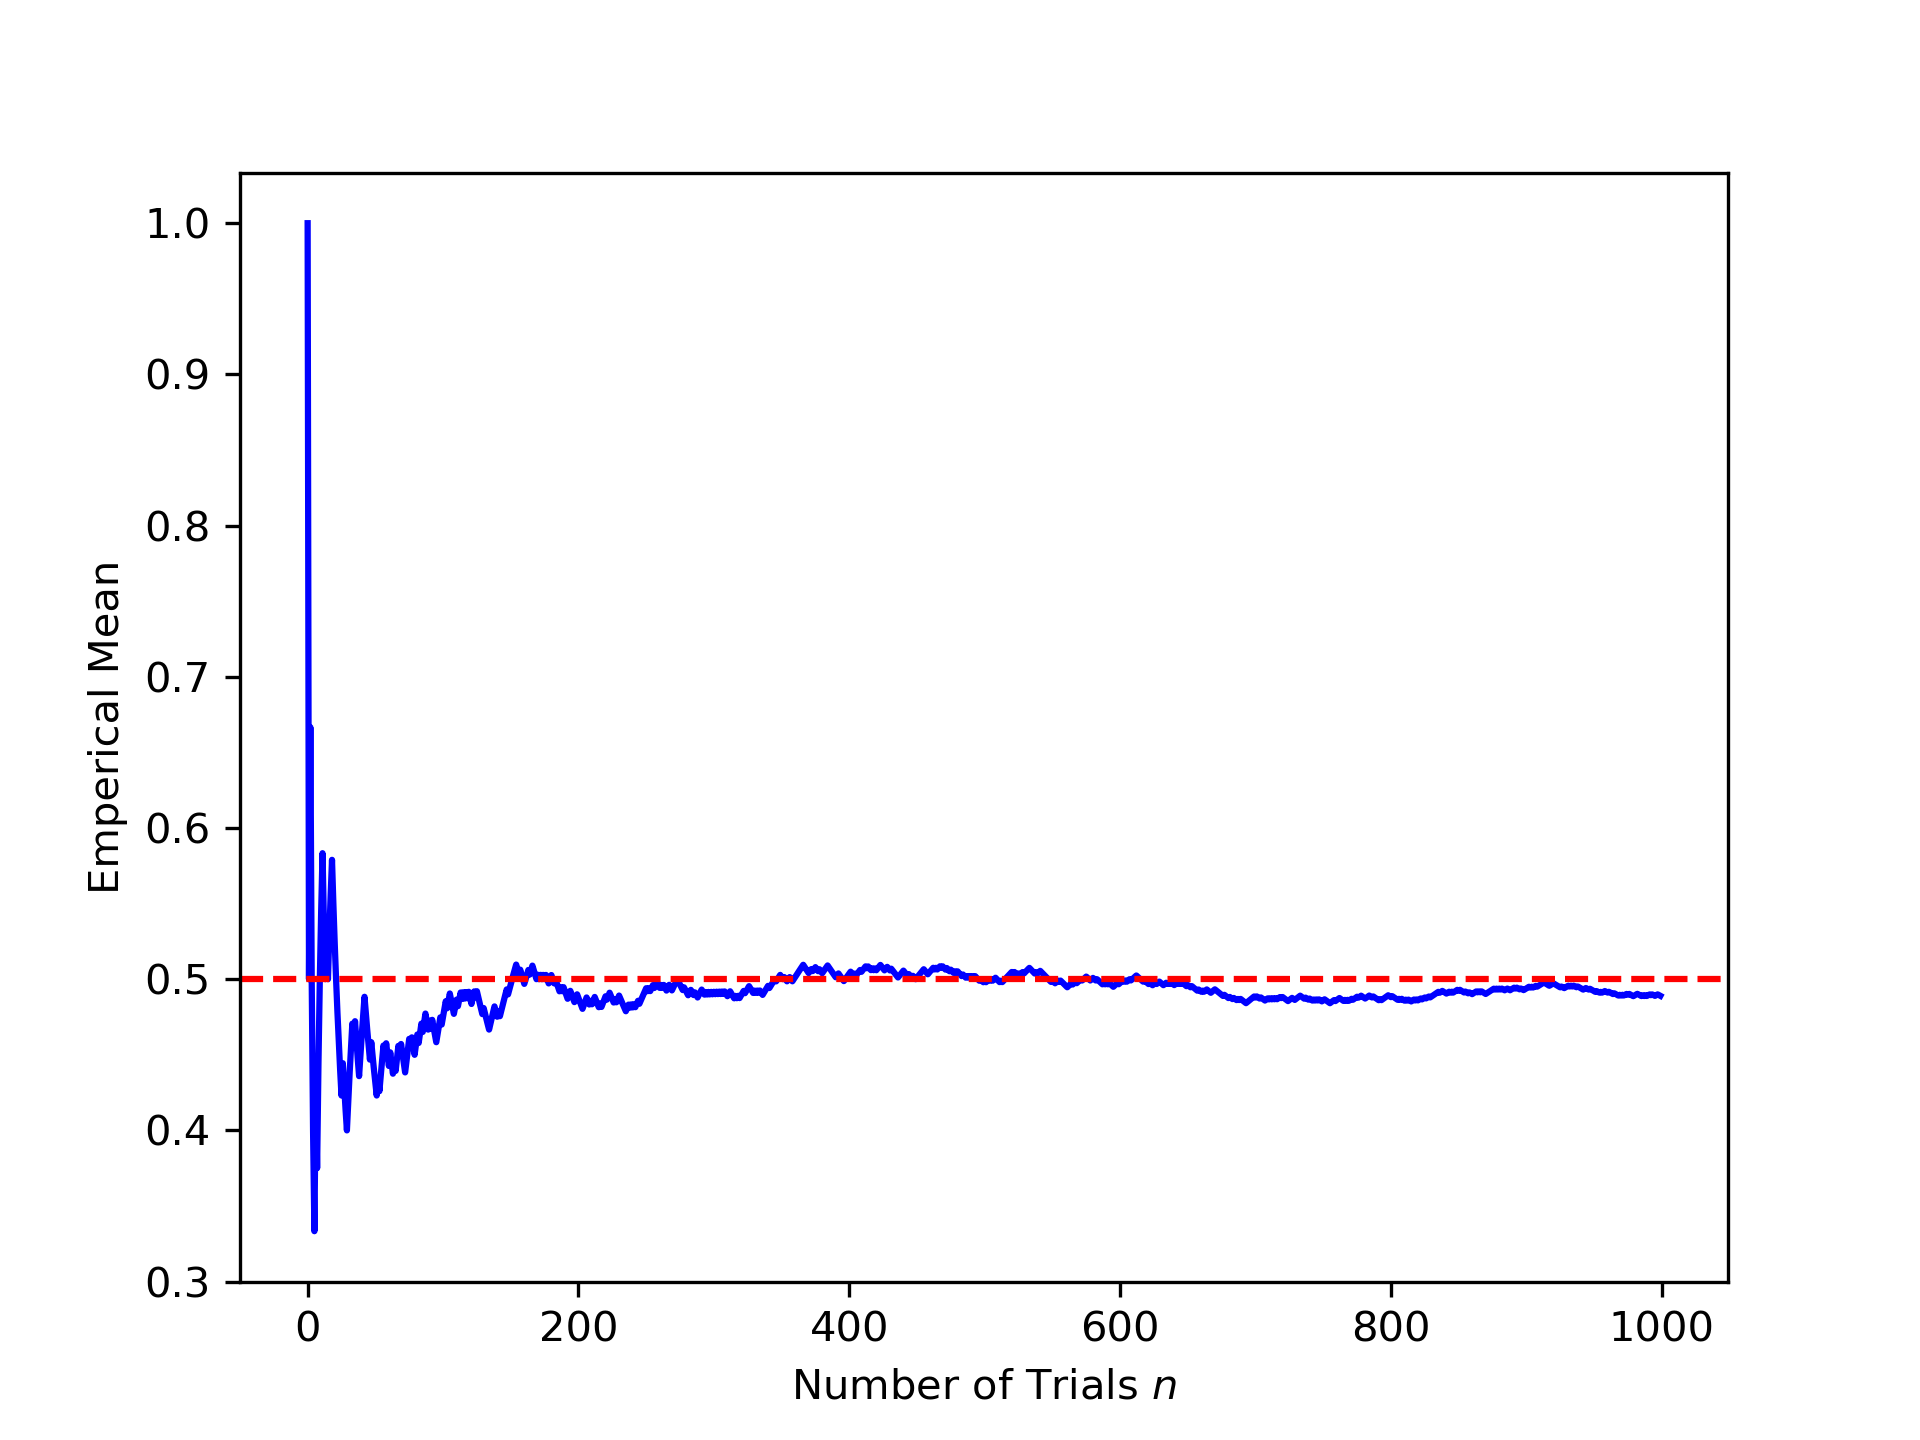
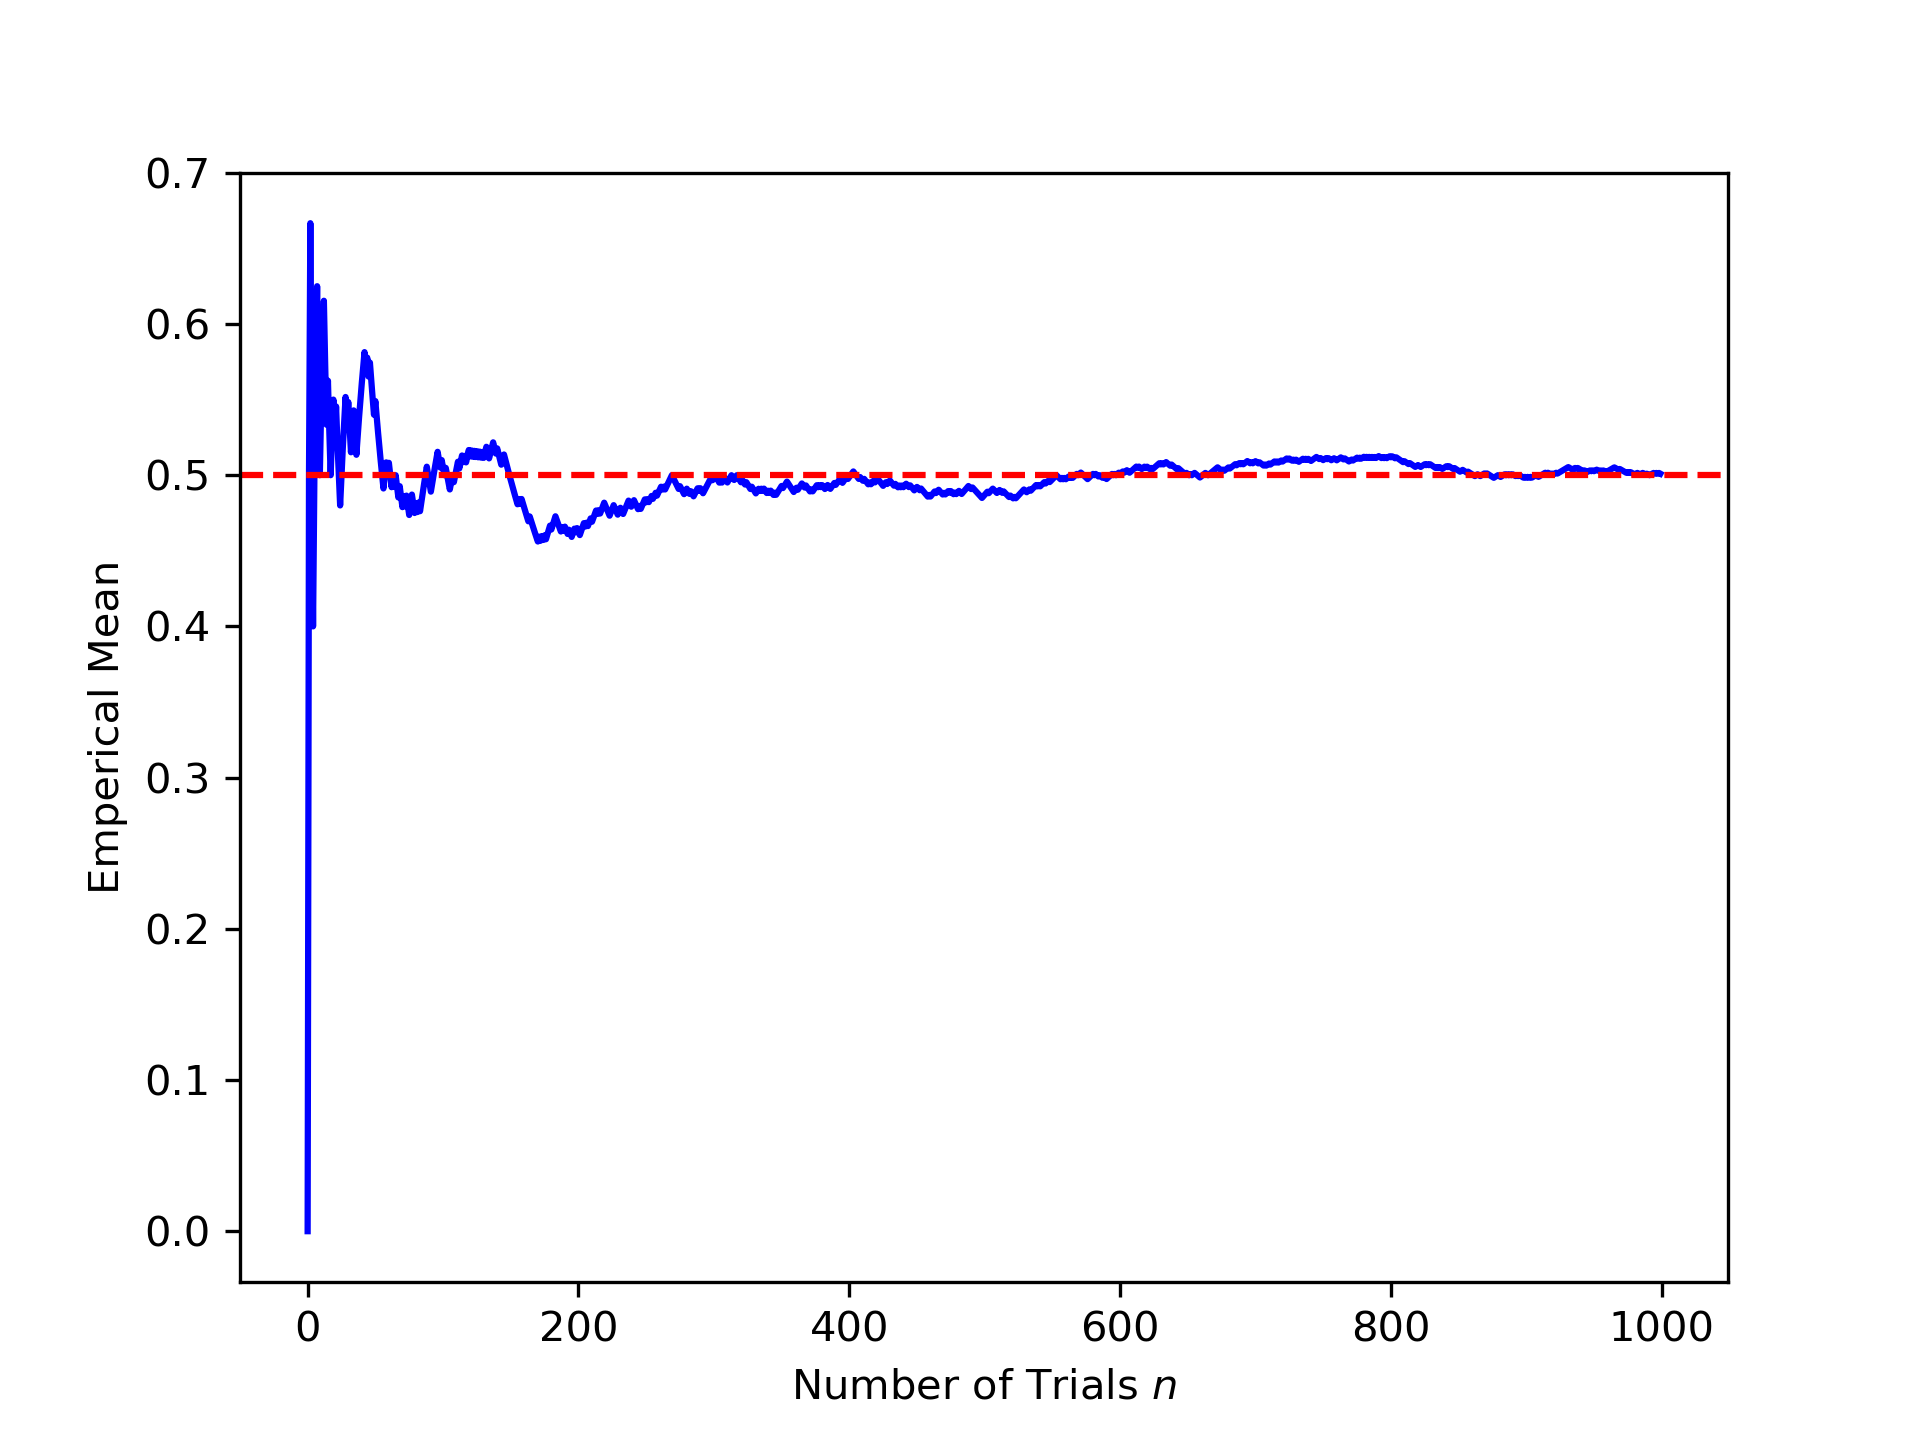
learning about the Poission distribution

diff --git a/_includes/head_custom.html b/_includes/head_custom.html
@@ -3,12 +3,12 @@
 <script>
 window.MathJax = {
   tex: {
-    inlineMath: [['$','$'], ['\\(','\\)']],
-    displayMath: [['$$','$$']]
+    inlineMath: [['$', '$'], ['\\(', '\\)']],
+    displayMath: [['$$','$$'], ['\\[','\\]']]
   }
 };
 </script>
 
-<script id="MathJax-script" async
+<script defer
   src="https://cdn.jsdelivr.net/npm/mathjax@3/es5/tex-mml-chtml.js">
 </script>

diff --git a/docs/probability-bootcamp/poission-distribution.md b/docs/probability-bootcamp/poission-distribution.md
@@ -1,0 +1,48 @@
+---
+title: The Poisson Distribution
+parent: Probability Bootcamp
+layout: home
+nav_order: 3
+---
+
+# 1. Introduction
+
+So far, we have been introduced to the Poisson distribution as the special case of the binomial distribution for small $p$ and in the limit of large $n$. We observed that $X \sim \text{Bi}(n, p)$ is approximated by $X \sim \text{Po}(\lambda = np)$ of which the probability distribution is,
+
+$$
+P(X = k) = \frac{\lambda^k e^{-\lambda}}{k!} 
+$$
+
+But what does a Poisson distributed variable $X$ represent? To attach a meaning to the distribution, we must pay close attention as to how it arises from a limiting case of the binomial distribution. $X$ counts the occurrence of an event. This event must be rare since $p$, the probability of the event happening during a single trial, is small. There must also be many trials $n$, many chances for the event to occur. However, in its mature form (not regarded as a special case of the binomial distribution), this is not a requirement. From these observations we may infer that: 
+
+{: .highlight}
+**Discription:**  The Poisson distribution gives the number of times a rare event occurs $X$ over a large number $n$ of trials. It is parameterised by $\lambda=np$ which is the expected number of times for the event to occur $E[X]$ over some specified period. The Poisson distribution is often used to model rare events that occur independently and at a constant average rate $\lambda$.
+
+# 2. Mean and Variance
+
+From the view that the Poisson distribution is a special case of the binomial distribution, it is natural to see $\lambda$ as $E[X]$ since $\lambda = np$. However, demonstrating this from the definition of $E[X]$ is more involved. Using the Taylor series expansion of $e^x$,
+
+$$
+e^x = \sum_{n=0}^{\infty} \frac{x^n}{n!}
+$$
+
+It can be shown that $E[X]=\lambda$ via,
+
+$$
+E[X] = \sum_{k=0}^{\infty} k P(X=k) = \sum_{k=0}^{\infty} k \frac{\lambda^u e^{-\lambda}}{k!}
+$$ 
+
+$$
+\vdots
+$$
+
+$$
+= \lambda e^{-\lambda} \underbrace{\sum_{u=0}^{\infty} \frac{\lambda^u }{u!}}_{e^{+\lambda}} = \lambda
+$$
+
+where many steps have been swept under the rug using $\cdots$. For a full derivation see [LINK]. In a similar fashion, by considering $E[X(X+1)]$ and the property $\text{Var}[X] = E[X^2] - (E[X])^2$, it can be shown that the variance of a Poission distributed variable $X$ is also $\lambda$ such that $\text{Var}[X] = \lambda$.
+
+# 3. References
+
+[jbstatistics - 
+The Poisson Distribution: Mathematically Deriving the Mean and Variance](https://www.youtube.com/watch?v=65n_v92JZeE)

diff --git a/docs/probability-bootcamp/bernoulli-random-variables.md b/docs/probability-bootcamp/bernoulli-random-variables.md
@@ -2,7 +2,7 @@
 title: Bernoulli Random Variables
 parent: Probability Bootcamp
 layout: home
-nav_order: 1
+nav_order: 2
 ---
 
 # 1. Coin Flipping
@@ -13,10 +13,31 @@ We have used the example of flipping a fair coin many times in the previous sect
 **Definition:**  A random variable $B$ is Bernoulli distributed with parameter $p$, written $B \sim \mathrm{Bernoulli}(p)$, if
 $\Pr(B=1)=p$ and $\Pr(B=0)=1-p=q$ where $0 \leq p \leq 1$ is the probability of the success.
 
+# 2. Probability Mass Function
+
 One can also construct a probability mass function (PMF) $P(B=\beta)$ for a Bernoulli variable,
 
-$P(B=\beta) = p^{\beta}(1-p)^{1-\beta}$
+$$
+P(B=\beta) = p^{\beta}(1-p)^{1-\beta}
+$$
 
-When $\beta=1$ (we select the probability of success), it is clear that $P(B=1) = p^{1}(1-p)^{0}=p$. Conversely, the probability of is $P(B=0) = p^{0}(1-p)=1-p$. Using this PMF, it can be shown that the expected value of a Bernoulli distributed variable $B$ is $\mathbf{E}[B] = p$. With $\mathbf{E}[B]$, one can also find the variance to be $\text{var}(B) = p(1-p)$.
+When $\beta=1$ (we select the probability of success), it is clear that $P(B=1) = p^{1}(1-p)^{0}=p$. Conversely, the probability of is $P(B=0) = p^{0}(1-p)=1-p$. Using this PMF, it can be shown that the expected value of a Bernoulli distributed variable $B$ is $\mathbf{E}[B] = p$. With $\mathbf{E}[B]$, one can also find the variance to be $\text{var}(B) = p(1-p)$. By simulating many $n$ number of coin flips in an experiment, it can be demonstrated that the emperical mean $\mu$, which is an estimate of $\mathbf{E}[B]$ approaches $p$ such that $\mu \approx \mathbf{E}[B] \rightarrow 0.5$. We can run this simulation in Python,
 
+```python
+# Importing,
+import numpy as np
+
+# Parameters
+N = 100000 # <-- Number of coin flips.
+p = 1/2
+
+# Simulation,
+mu = 0 
+for i in range(1, N+1):
+    uniform = np.random.uniform(low=0, high=1, size=1)
+    b = 0 if uniform < p else 1
+    mu += (1/i)*(b - mu) 
+```
+
+Graphing the emperical mean as a function of the number of trials performed so far $\mu(n)$,
 ![1782076452272](image/bernoulli-random-variables/1782076452272.png)

diff --git a/docs/probability-bootcamp/index.md b/docs/probability-bootcamp/index.md
@@ -4,4 +4,5 @@ layout: home
 nav_order: 2
 ---
 
-Welcome to the probability bootcamp! These notes are based on Steven L. Brunton's YouTube series titled _"Probability Bootcamp"_ available for free at: [link](https://www.youtube.com/watch?v=sQqniayndb4&list=PLMrJAkhIeNNR3sNYvfgiKgcStwuPSts9V). The course covers the basics of probability for enginners, physicists, data scientists and machine learning practitioners. It aims to cover ground quickly in order to move to more advanced topics. I have made the effort to transcribe Brunton's short lectures into concise notes.
+Welcome to the probability bootcamp! These notes are based on Steven L. Brunton's YouTube series titled _"Probability Bootcamp"_ available for free at: [link](https://www.youtube.com/watch?v=sQqniayndb4&list=PLMrJAkhIeNNR3sNYvfgiKgcStwuPSts9V). The course covers the basics of probability for enginners, physicists, data scientists and machine learning practitioners. It aims to cover ground quickly in order to move to more advanced topics. My contribution is transcribing Brunton's short lectures into concise notes while also
+providing to Python code to run probability simulations that enchance learning.